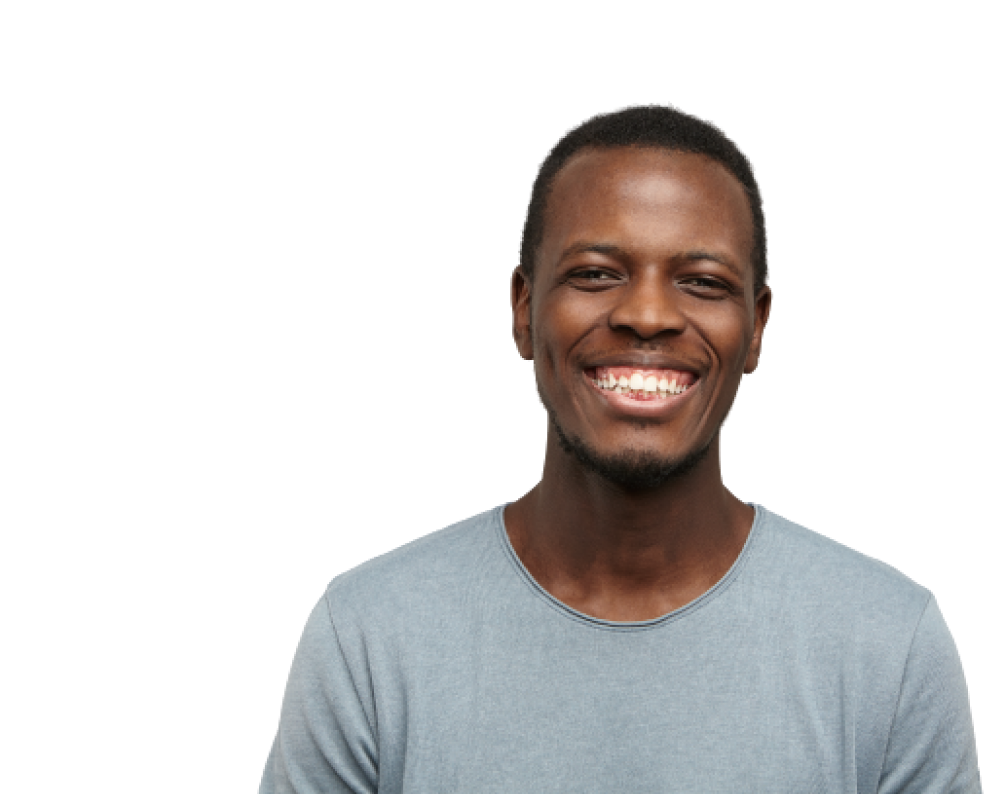
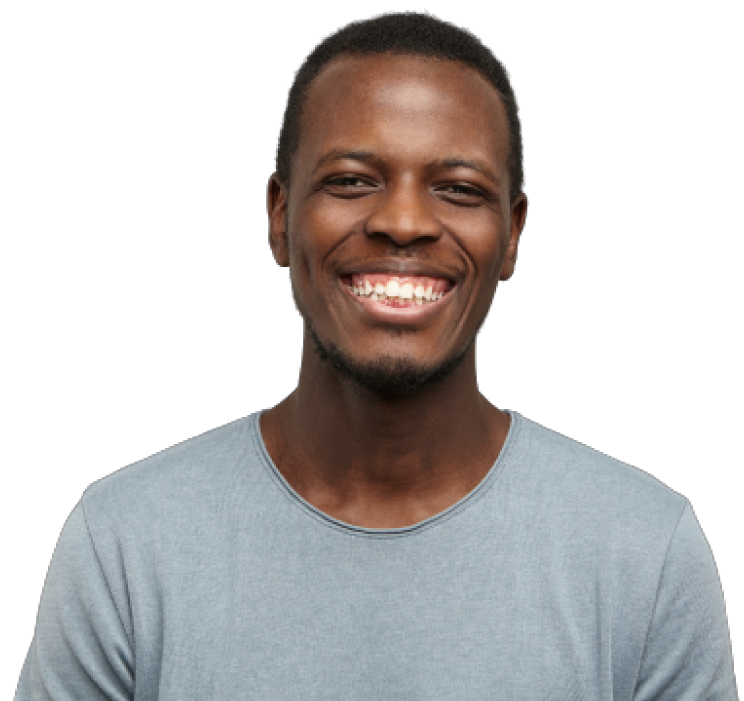
styling updated

diff --git a/pages/for-organisation.tsx b/pages/for-organisation.tsx
@@ -31,7 +31,7 @@ const ForOrganisation = () => {
                       FLIP serves as a source to provide tests, examination  <br className='mobile:hidden md:hidden lg:block xl:hidden' />management,
                       quick grading of systems and collation of  <br className='mobile:hidden md:hidden lg:block xl:hidden' /> results instead of the use of pen and paper.
                     </p>
-                    <div className='flex mobile:mt-10 mobile:justify-center md:justify-start lg:justify-start'>
+                    <div className='flex mobile:mt-10 mobile:justify-center md:justify-start md:mb-[4em] lg:mb-0 lg:justify-start'>
                       <Link href="/">
                         <a className='py-3 text-base text-white bg-[#0075FF] btn-border px-[4rem] md:py-5'>GET STARTED</a>
                       </Link>
@@ -39,7 +39,7 @@ const ForOrganisation = () => {
                   </div>
                 </div>
                 <div className='w-1/2 lg:block md:flex justify-end mobile:hidden'>
-                  <div className='px-auto md:mt-[5em] lg:mt-0'>
+                  <div className='px-auto md:mt-[7em] lg:mt-[5em]'>
                     <div>
                       <img src="/OrganisationBg.png" alt="customer" className='bg-image-boy' />
                     </div>

diff --git a/styles/globals.css b/styles/globals.css
@@ -221,7 +221,15 @@ img{
     color: #333333;
   }
 }
+@media only screen and (max-width: 800px) {
+  .bg-image-boy{
+    display: none;
+  }
 
+  .bg-image-girl{
+    display: none;
+  }
+}
 @media only screen and (min-width: 800px){
   .register {
     background-image: url('/register.png');
@@ -279,7 +287,7 @@ img{
     height: 100vh;
   }
 
-  .ForOrganisation {
+  /* .ForOrganisation {
     background-image: url('/OrganisationBg.png');
     background-repeat: no-repeat;
     background-size: 800px 650px;
@@ -292,9 +300,9 @@ img{
     background-repeat: no-repeat;
     background-size: 850px 700px;
     background-position: right bottom;
-  }
+  } */
   .bg-image-boy{
-    height: 620px;
+    height: 550px;
   }
   .bg-image-girl {
     height: 500px;
@@ -319,7 +327,7 @@ img{
   }
 
   .bg-image-boy{
-    height: 800px;
+    height: 700px;
   }
   .student-card {
     right: 420px;

diff --git a/pages/index.tsx b/pages/index.tsx
@@ -47,7 +47,7 @@ const Home: NextPage = () => {
                   </div>
                 </div>
                 <div className='w-1/2 lg:block md:flex justify-end mobile:hidden'>
-                  <div className='px-auto md:mt-[5em] lg:mt-[8em]'>
+                  <div className='px-auto md:mt-[5em] lg:mt-[6em]'>
                     <div>
                       <img src="/bg2.png" alt="customer" className='bg-image-girl' />
                     </div>
